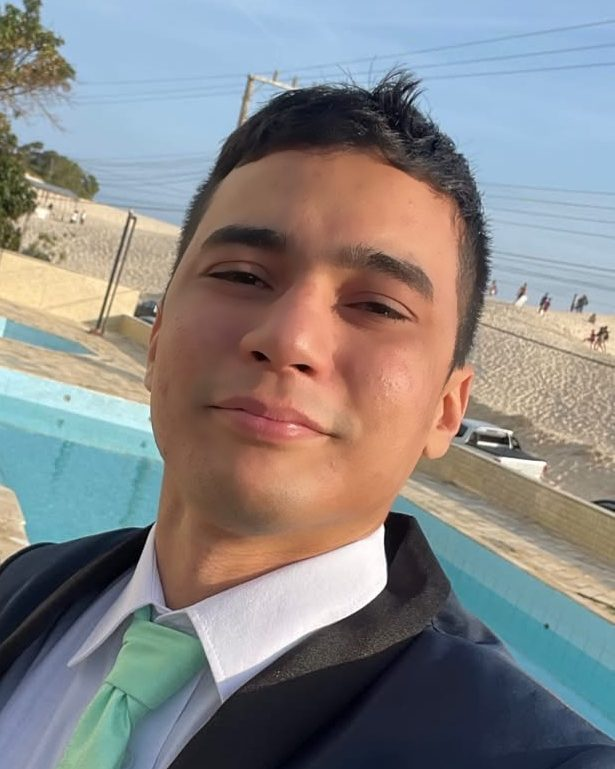
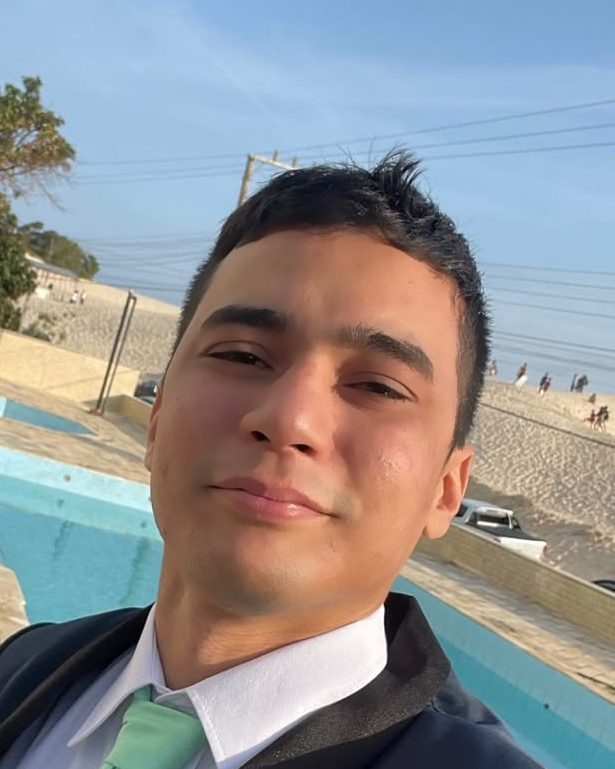
Foto maior, com mais contexto, na home e na porta 00
Claude-Session: https://claude.ai/code/session_01Mw14ZAHn5q8ZTeBkBi7Sf5

diff --git a/index.html b/index.html
@@ -13,7 +13,7 @@
   <link rel="preconnect" href="https://fonts.googleapis.com">
   <link rel="preconnect" href="https://fonts.gstatic.com" crossorigin>
   <link href="https://fonts.googleapis.com/css2?family=Bricolage+Grotesque:opsz,wght@12..96,600..800&family=Manrope:wght@400;600;700&family=JetBrains+Mono:wght@500&display=swap" rel="stylesheet">
-  <link rel="stylesheet" href="assets/css/draxora.css?v=202610131300">
+  <link rel="stylesheet" href="assets/css/draxora.css?v=202610131305">
 </head>
 <body>
 
@@ -98,10 +98,10 @@
         <p class="dx-label">Quem está por trás</p>
         <h2 class="h-l">Engenharia aplicada a quem quer mudar.</h2>
         <p class="lead">Engenheiro de software há 10 anos. A Draxora usa o mesmo rigor que faz um sistema funcionar para criar produtos que ajudam pessoas.</p>
-        <div class="about-who">
-          <picture><source srcset="assets/img/elias-avatar.webp" type="image/webp"><img src="assets/img/elias-avatar.jpg" alt="Foto de Elias Jr" width="56" height="56" loading="lazy"></picture>
-          <span><strong>Elias Jr</strong><small>Fundador da Draxora</small></span>
-        </div>
+        <figure class="about-who">
+          <picture><source srcset="assets/img/elias-retrato.webp" type="image/webp"><img src="assets/img/elias-retrato.jpg" alt="Foto de Elias Jr" width="615" height="769" loading="lazy"></picture>
+          <figcaption><strong>Elias Jr</strong><small>Fundador da Draxora</small></figcaption>
+        </figure>
       </div>
       <ul class="about-list">
         <li><span class="about-num">01</span><span class="about-text"><strong>Método, não motivação</strong><span>Passos claros, para aplicar no mesmo dia.</span></span></li>
@@ -159,6 +159,6 @@
   </form>
 </dialog>
 
-<script src="assets/js/main.js?v=202610131300" defer></script>
+<script src="assets/js/main.js?v=202610131305" defer></script>
 </body>
 </html>

diff --git a/assets/css/draxora.css b/assets/css/draxora.css
@@ -380,11 +380,13 @@ a.door:hover .door-cta::after { transform: translateX(4px); }
 }
 
 /* Foto do fundador */
-.about-who { display: flex; align-items: center; gap: 14px; margin-top: var(--space-1); }
-.about-who img { width: 56px; height: 56px; border-radius: var(--radius-pill); object-fit: cover; border: 2px solid var(--line); }
-.about-who strong { display: block; font-size: 16px; line-height: 22px; color: var(--ink); }
+.about-who { display: flex; align-items: flex-end; gap: var(--space-2); margin: var(--space-1) 0 0; }
+.about-who picture { flex: none; width: clamp(132px, 34vw, 184px); }
+.about-who img { display: block; width: 100%; height: auto; aspect-ratio: 4 / 5; object-fit: cover; border-radius: var(--radius-md); border: 1px solid var(--line); }
+.about-who figcaption { padding-bottom: 6px; }
+.about-who strong { display: block; font-family: var(--font-display); font-size: 18px; line-height: 24px; color: var(--ink); }
 .about-who small { display: block; font-size: 14px; line-height: 20px; color: var(--ink-muted); }
-.founder-photo { position: relative; margin: 0; aspect-ratio: 4 / 5; width: 100%; max-width: 380px; justify-self: center; border-radius: var(--radius-md); overflow: hidden; border: 1px solid var(--line); }
+.founder-photo { position: relative; margin: 0; aspect-ratio: 4 / 5; width: 100%; max-width: 420px; justify-self: center; border-radius: var(--radius-md); overflow: hidden; border: 1px solid var(--line); }
 .founder-photo img { display: block; width: 100%; height: 100%; object-fit: cover; }
 .founder-photo::after { content: ""; position: absolute; top: 0; bottom: 0; left: 0; width: 4px; background: var(--lume); }
-@media (max-width: 860px) { .founder-photo { max-width: 320px; justify-self: start; } }
+@media (max-width: 860px) { .founder-photo { max-width: 100%; justify-self: stretch; } }

diff --git a/mapa-dos-sintomas/index.html b/mapa-dos-sintomas/index.html
@@ -13,7 +13,7 @@
   <link rel="preconnect" href="https://fonts.googleapis.com">
   <link rel="preconnect" href="https://fonts.gstatic.com" crossorigin>
   <link href="https://fonts.googleapis.com/css2?family=Bricolage+Grotesque:opsz,wght@12..96,600..800&family=Manrope:wght@400;600;700&family=JetBrains+Mono:wght@500&display=swap" rel="stylesheet">
-  <link rel="stylesheet" href="../assets/css/draxora.css?v=202610131300">
+  <link rel="stylesheet" href="../assets/css/draxora.css?v=202610131305">
 </head>
 <body>
 
@@ -290,6 +290,6 @@
   </div>
 </footer>
 
-<script src="../assets/js/main.js?v=202610131300" defer></script>
+<script src="../assets/js/main.js?v=202610131305" defer></script>
 </body>
 </html>
